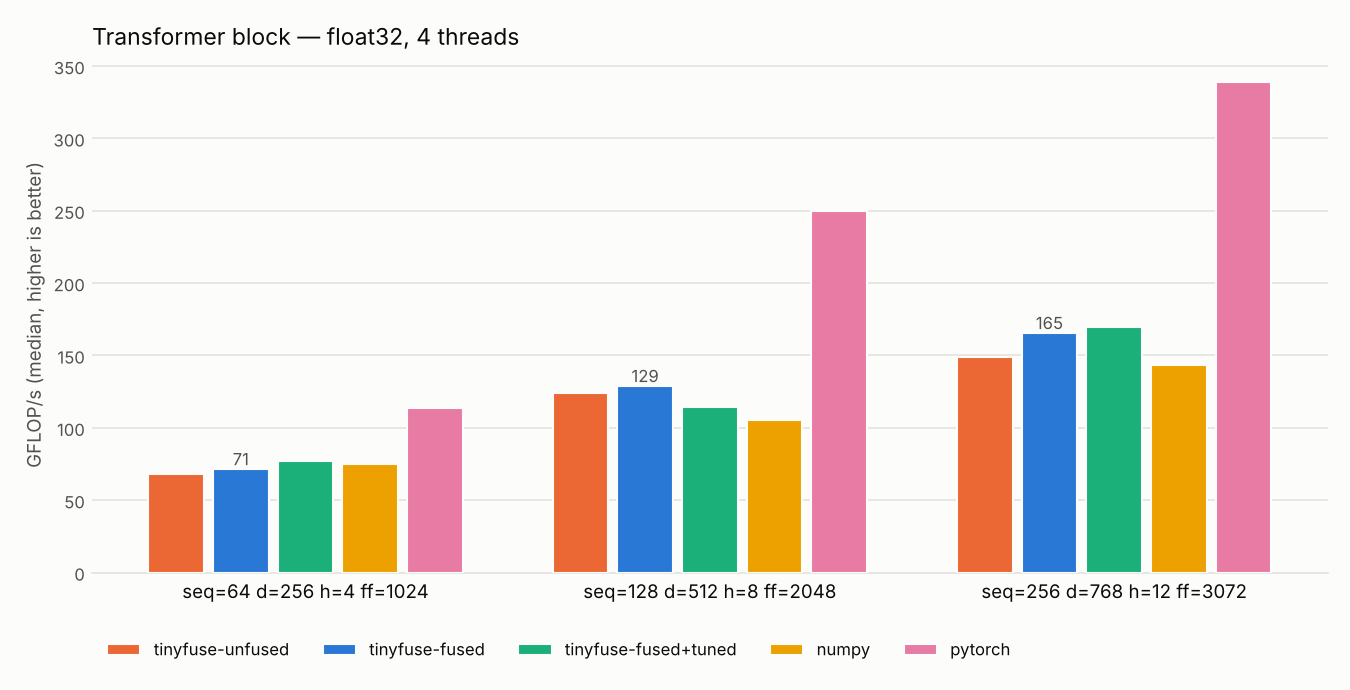
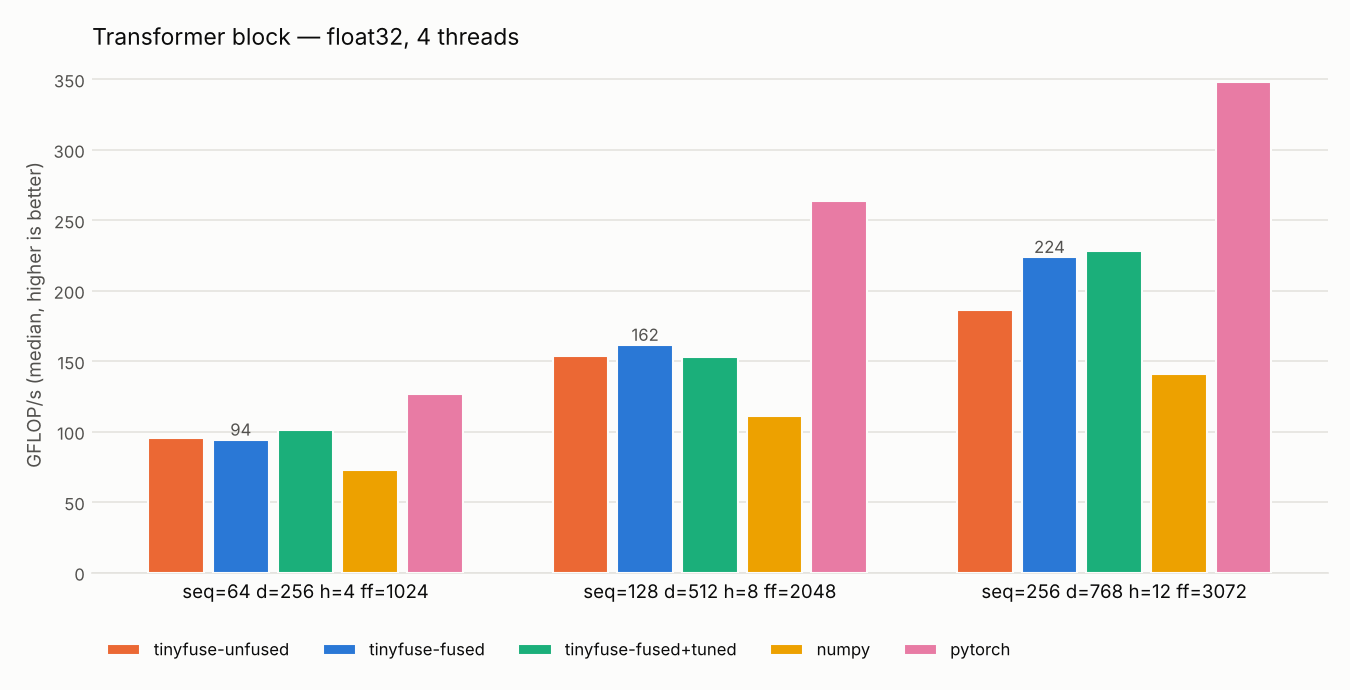
Update 4-thread benchmarks after parallel matmul rewrite; document threading design

diff --git a/README.md b/README.md
@@ -26,8 +26,8 @@ y = f(x, w1, b1, w2, b2)  # NumPy arrays in, NumPy arrays out
   NumPy at `rtol = atol = 1e-4`, plus randomized differential fuzzing.
 * Single-threaded, it is **1.2–1.7× faster than NumPy/OpenBLAS** on these
   models, and on par with or faster than PyTorch eager on the transformer
-  block. **With 4 threads it is 1.5–2.4× slower than PyTorch**, because its
-  threading is naive. Numbers [below](#benchmarks).
+  block. **With 4 threads, PyTorch is 1.35–2.3× faster than it**. Numbers
+  [below](#benchmarks).
 
 Design decisions and their rationale are in **[DESIGN.md](DESIGN.md)**.
 
@@ -236,15 +236,15 @@ PyTorch use 4 threads.
 
 | MLP (batch, in→hidden→out) | unfused | fused | fused+tuned | numpy | pytorch |
 |---|---:|---:|---:|---:|---:|
-| 16, 256→1024→256 | 0.387 (×0.54) | 0.439 (×0.48) | 0.557 (×0.38) | 0.209 | 0.106 (×1.98) |
-| 64, 512→2048→512 | 2.577 (×0.63) | 2.595 (×0.62) | 3.151 (×0.51) | 1.613 | 0.880 (×1.83) |
-| 256, 1024→4096→1024 | 21.28 (×0.79) | 22.65 (×0.74) | 22.09 (×0.76) | 16.77 | 11.20 (×1.50) |
+| 16, 256→1024→256 | 0.202 (×1.11) | 0.181 (×1.24) | 0.169 (×1.32) | 0.223 | 0.101 (×2.21) |
+| 64, 512→2048→512 | 2.170 (×0.79) | 1.972 (×0.87) | 2.171 (×0.79) | 1.723 | 0.859 (×2.00) |
+| 256, 1024→4096→1024 | 19.00 (×0.96) | 17.74 (×1.03) | 17.48 (×1.05) | 18.33 | 11.66 (×1.57) |
 
 | Transformer block (seq, d, heads, ff) | unfused | fused | fused+tuned | numpy | pytorch |
 |---|---:|---:|---:|---:|---:|
-| 64, 256, 4, 1024 | 1.537 (×0.91) | 1.468 (×0.95) | 1.355 (×1.03) | 1.400 | 0.921 (×1.52) |
-| 128, 512, 8, 2048 | 6.745 (×1.18) | 6.511 (×1.22) | 7.326 (×1.08) | 7.936 | 3.361 (×2.36) |
-| 256, 768, 12, 3072 | 25.69 (×1.04) | 23.12 (×1.16) | 22.54 (×1.19) | 26.71 | 11.28 (×2.37) |
+| 64, 256, 4, 1024 | 1.097 (×1.31) | 1.112 (×1.30) | 1.033 (×1.40) | 1.442 | 0.826 (×1.75) |
+| 128, 512, 8, 2048 | 5.469 (×1.38) | 5.192 (×1.46) | 5.478 (×1.38) | 7.569 | 3.186 (×2.38) |
+| 256, 768, 12, 3072 | 20.51 (×1.32) | 17.09 (×1.59) | 16.76 (×1.62) | 27.10 | 10.99 (×2.47) |
 
 ### What the numbers say
 
@@ -262,13 +262,15 @@ PyTorch use 4 threads.
   is too large for the problem.
 * **PyTorch eager** is faster on the smallest and the largest MLP. Its MKL/oneDNN
   GEMM beats ours on large square-ish problems.
-* **Multi-threaded, tinyfuse loses.** PyTorch is 1.5–2.4× faster than tinyfuse
-  at 4 threads, and NumPy wins on the MLPs. Our matmul opens an OpenMP parallel
-  region for every cache block, packs A on one thread, and uses tiles tuned for
-  one thread. The autotuner tunes single-threaded, so its tiles can hurt here
-  (see `fused+tuned` on the MLPs). Going from 1 to 4 threads ranges from
-  0.7× (the smallest MLP gets *slower*) to 1.65×. Fixing this is the most valuable next step: one parallel region per
-  kernel, per-thread A packing, and parallelising over N-panels for small M.
+* **Multi-threaded, PyTorch is clearly ahead.** At 4 threads PyTorch eager is
+  1.35–2.3× faster than tinyfuse-fused. tinyfuse beats NumPy on the transformer
+  block (1.3–1.6×) and is roughly level with it on the MLPs (0.87–1.05×).
+  tinyfuse-fused scales 1.2–2.2× from 1 to 4 threads. Our first threading
+  design scaled 0.7–1.65×, because it forked an OpenMP team for every cache
+  block; the current design uses one parallel region per kernel with
+  per-thread packing (see DESIGN.md). The remaining gap is in the GEMM itself:
+  no prefetching, tiles tuned for one thread, and a fork/join per kernel rather
+  than one per graph.
 * **The multi-threaded numbers are noisier.** On this VM the medians still sit
   10–60 % above the minimums at 4 threads.
 
@@ -301,12 +303,12 @@ PyTorch use 4 threads.
   hand-written assembly. It is tuned for AVX-512; AVX2 and narrower targets work
   through the same vector-extension code but get much less tuning. Packing
   buffers are rebuilt on every call, even for constant weights.
-* **Threading is basic, and it shows (see the 4-thread benchmarks).** With
-  `parallel=True`, OpenMP splits each matmul cache block's micro-tiles and the
-  outer loops of elementwise and row kernels, with a fork/join per block. There
-  is no per-thread packing, no NUMA awareness, and no amortization across
-  kernels. A compiled function is **not reentrant**, because its workspace is
-  shared between calls.
+* **Threading is basic.** With `parallel=True`, each matmul kernel runs one
+  OpenMP region over (row block × panel) units with per-thread A packing, and
+  elementwise and row kernels parallelize their outer loop. There is a fork/join
+  per kernel (not per graph), no NUMA awareness, and the autotuner tunes
+  single-threaded. A compiled function is **not reentrant**, because its
+  workspace is shared between calls.
 * **`-ffast-math`.** It is needed for vectorized `expf`/`tanhf` (glibc libmvec).
   Results can differ from NumPy in the last bits, and NaN/inf inputs give
   unspecified results.

diff --git a/docs/benchmarks_4t.md b/docs/benchmarks_4t.md
@@ -2,14 +2,14 @@
 
 | config | tinyfuse-unfused | tinyfuse-fused | tinyfuse-fused+tuned | numpy | pytorch |
 |---|---:|---:|---:|---:|---:|
-| batch=16 256→1024→256 | 0.387 (×0.54) | 0.439 (×0.48) | 0.557 (×0.38) | 0.209 (×1.00) | 0.106 (×1.98) |
-| batch=64 512→2048→512 | 2.577 (×0.63) | 2.595 (×0.62) | 3.151 (×0.51) | 1.613 (×1.00) | 0.880 (×1.83) |
-| batch=256 1024→4096→1024 | 21.279 (×0.79) | 22.650 (×0.74) | 22.094 (×0.76) | 16.765 (×1.00) | 11.202 (×1.50) |
+| batch=16 256→1024→256 | 0.202 (×1.11) | 0.181 (×1.24) | 0.169 (×1.32) | 0.223 (×1.00) | 0.101 (×2.21) |
+| batch=64 512→2048→512 | 2.170 (×0.79) | 1.972 (×0.87) | 2.171 (×0.79) | 1.723 (×1.00) | 0.859 (×2.00) |
+| batch=256 1024→4096→1024 | 18.997 (×0.96) | 17.742 (×1.03) | 17.479 (×1.05) | 18.332 (×1.00) | 11.661 (×1.57) |
 
 **transformer** — median ms per call (speedup vs NumPy)
 
 | config | tinyfuse-unfused | tinyfuse-fused | tinyfuse-fused+tuned | numpy | pytorch |
 |---|---:|---:|---:|---:|---:|
-| seq=64 d=256 h=4 ff=1024 | 1.537 (×0.91) | 1.468 (×0.95) | 1.355 (×1.03) | 1.400 (×1.00) | 0.921 (×1.52) |
-| seq=128 d=512 h=8 ff=2048 | 6.745 (×1.18) | 6.511 (×1.22) | 7.326 (×1.08) | 7.936 (×1.00) | 3.361 (×2.36) |
-| seq=256 d=768 h=12 ff=3072 | 25.685 (×1.04) | 23.115 (×1.16) | 22.543 (×1.19) | 26.708 (×1.00) | 11.279 (×2.37) |
+| seq=64 d=256 h=4 ff=1024 | 1.097 (×1.31) | 1.112 (×1.30) | 1.033 (×1.40) | 1.442 (×1.00) | 0.826 (×1.75) |
+| seq=128 d=512 h=8 ff=2048 | 5.469 (×1.38) | 5.192 (×1.46) | 5.478 (×1.38) | 7.569 (×1.00) | 3.186 (×2.38) |
+| seq=256 d=768 h=12 ff=3072 | 20.505 (×1.32) | 17.085 (×1.59) | 16.764 (×1.62) | 27.095 (×1.00) | 10.986 (×2.47) |

diff --git a/DESIGN.md b/DESIGN.md
@@ -158,6 +158,17 @@ nothing.
     24 of the 32 zmm registers for accumulators. In measurements it was the most
     consistent across the benchmark shapes. The default AVX2 tile is `6×2`
     vectors. Tiles are clamped to the problem size.
+* **Threading (`parallel=True`).** The first version forked an OpenMP team for
+  every cache block, packed A on one thread, and split only the micro-tiles of
+  one block. At 4 threads that was often *slower* than 1 thread. The current
+  version opens **one parallel region per matmul kernel**. Inside it, B panels
+  are packed with `omp for`, and the work units are `(row block × B panel)`
+  pairs, distributed with `omp for collapse(2)`. Each thread packs A into its own
+  scratch slice (`max_threads` slices are reserved) and skips repacking while
+  consecutive units share a row block. Small-M problems still get parallelism
+  across N panels. Each unit's owner applies the epilogue to its own region.
+  Elementwise, softmax and layernorm kernels use `omp parallel for` on their
+  outer loop when the tensor has at least 32K elements.
 * **Softmax / LayerNorm.** These are row-wise kernels with `omp simd reduction`
   loops. Softmax subtracts the row max, which keeps it stable for large inputs
   (tested). The max starts at `-FLT_MAX`, not `-INFINITY`; see the fast-math note
